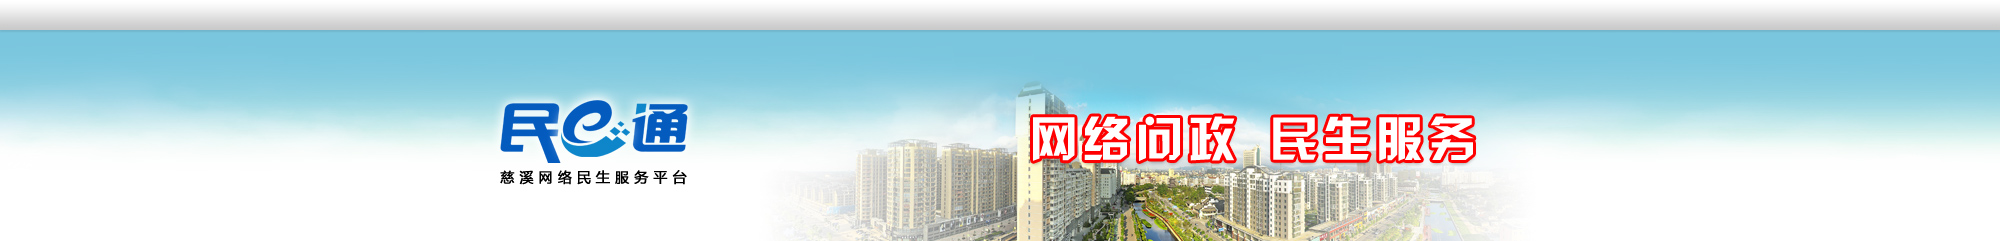
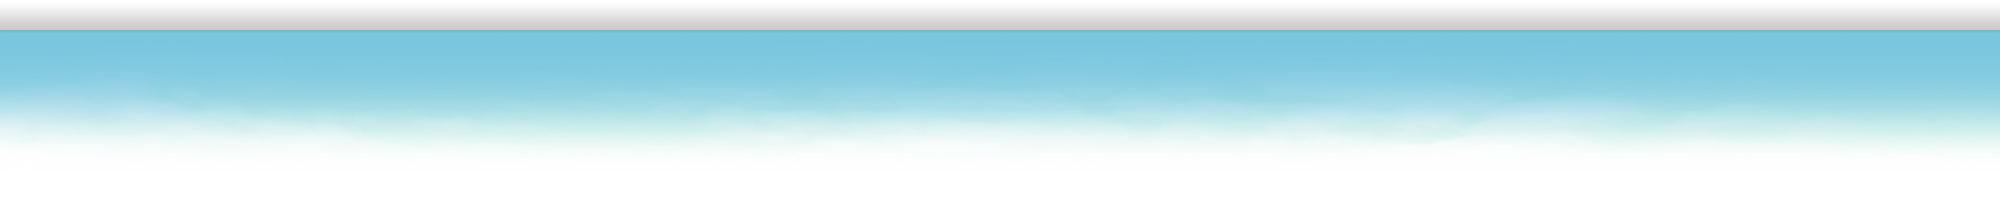
首页banner

diff --git a/template/default/common/top_nav.htm b/template/default/common/top_nav.htm
@@ -40,35 +40,53 @@
 <body id="nv_{$_G[basescript]}" class="pg_{CURMODULE}{if $_G['basescript'] === 'portal' && CURMODULE === 'list' && !empty($cat)} {$cat['bodycss']}{/if}" onkeydown="if(event.keyCode==27) return false;">
 <div id="append_parent"></div><div id="ajaxwaitid"></div>
 
-
-
 <script>
 jq(function() {
-	
     jq('#bigslider').slidesjs({
-    	width:850,
-    	height:213,
+    	width:980,
+    	height:212,
     	navigation: {
-    	      active: false,
-    	        // [boolean] Generates next and previous buttons.
-    	        // You can set to false and use your own buttons.
-    	        // User defined buttons must have the following:
-    	        // previous button: class="slidesjs-previous slidesjs-navigation"
-    	        // next button: class="slidesjs-next slidesjs-navigation"
-    	      effect: "fade"
-    	        // [string] Can be either "slide" or "fade".
-    	    }
+    	  active:false,
+          effect: "fade"
+        },
+        pagination: {
+          effect: "fade"
+        },
+    	play: {
+   	      active: false,
+   	        // [boolean] Generate the play and stop buttons.
+   	        // You cannot use your own buttons. Sorry.
+   	      effect: "fade",
+   	        // [string] Can be either "slide" or "fade".
+   	      interval: 3000,
+   	        // [number] Time spent on each slide in milliseconds.
+   	      auto: true,
+   	        // [boolean] Start playing the slideshow on load.
+   	      swap: true,
+   	        // [boolean] show/hide stop and play buttons
+   	      pauseOnHover: true,
+   	        // [boolean] pause a playing slideshow on hover
+   	      restartDelay: 2000
+   	        // [number] restart delay on inactive slideshow
+   	    },
+    	effect: {
+  	      fade: {
+  	        speed: 1000,
+  	          // [number] Speed in milliseconds of the fade animation.
+  	        crossfade: true
+  	          // [boolean] Cross-fade the transition.
+  	      }
+  	    }
     });
 });
 </script>
 
 <div class="outter_wrap" style="position:relative;">
-	<div id="bigslider">
-		<img src="{$_G[siteurl]}images/v3/banner2_850.png"/>
-		<img src="{$_G[siteurl]}images/v3/banner1_850.png"/>
-		<img src="{$_G[siteurl]}images/v3/banner3_850.png"/>
-	</div>
-
+    <div id="bigslider">
+        <img class="png_bg" src="{$_G[siteurl]}images/v3/banner1.png"/>
+        <img class="png_bg" src="{$_G[siteurl]}images/v3/banner2.png"/>
+        <img class="png_bg" src="{$_G[siteurl]}images/v3/banner3.png"/>
+    </div>
     <!-- header start -->
     <div class="header">
         <div class="fll"><a href="/">{$_G['setting']['bbname']}</a>&nbsp;|&nbsp;<a href="http://www.cxnews.cn" target="_blank">慈溪新闻网</a></div>
@@ -89,7 +107,7 @@ jq(function() {
     </div>
     <!-- header end -->
 	<div class="dlogo mainpage">	
-		<div class="toplogo"></div>
+		<div class="toplogo png_bg"></div>
 	</div>
 	<div class="menu mainpage clearfix">
 	    <ul class="nav">

diff --git a/css/ms_v3.css b/css/ms_v3.css
@@ -42,9 +42,8 @@ button {
 }
 
 body {
-    background:#fff url("../images/v3/top_bg3.jpg") no-repeat 50% 0 !important;
+    background:#fff url("../images/v3/top_bg.jpg") no-repeat 50% 0 !important;
 }
-
 
 .outter_wrap , .header , .w1000 ,.dlogo {
     width: 1120px;
@@ -70,7 +69,7 @@ body {
 }
 
 .dlogo {
-    height:210px;
+    height:212px;
     position:relative;
 }
 
@@ -110,8 +109,8 @@ body {
 
 #bigslider {
 	position:absolute;
-	width:850px;
-	height:213px;
+	width:980px;
+	height:212px;
 	top:31px;
 	right:0px;
 }

diff --git a/template/default/common/header.htm b/template/default/common/header.htm
@@ -61,7 +61,7 @@
     </div>
     <!-- header end -->
 	<div class="dlogo subpage"> 
-	    <div class="toplogo"></div>
+	    <div class="toplogo png_bg"></div>
 	    <div class="menu">
 	        <ul class="nav">
 	            <!--{loop $_G['setting']['navs'] $navid $item}-->
